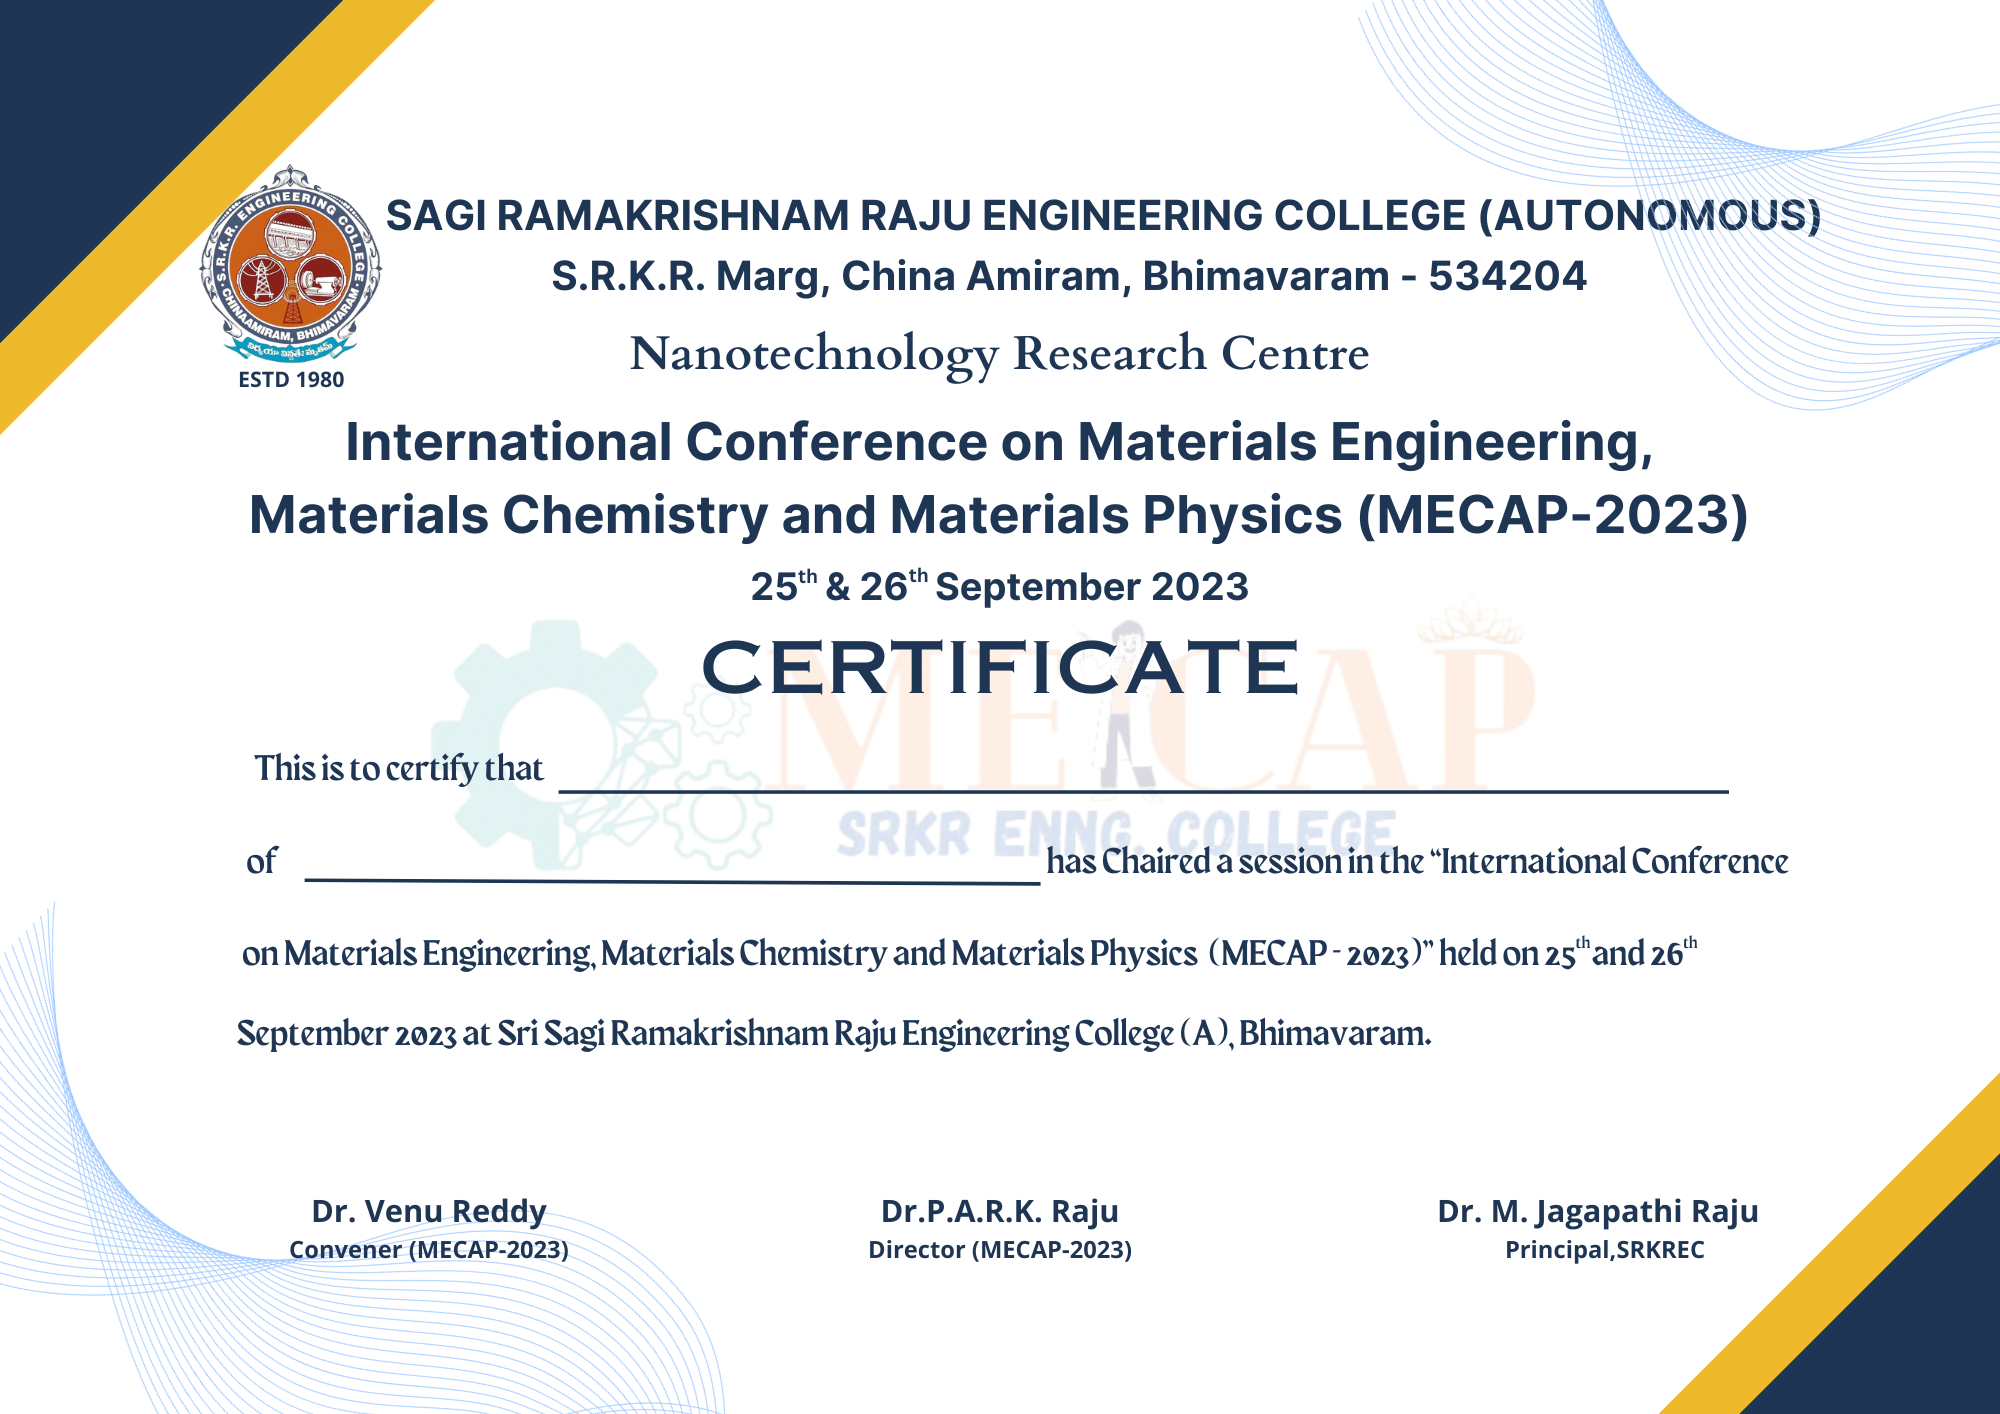
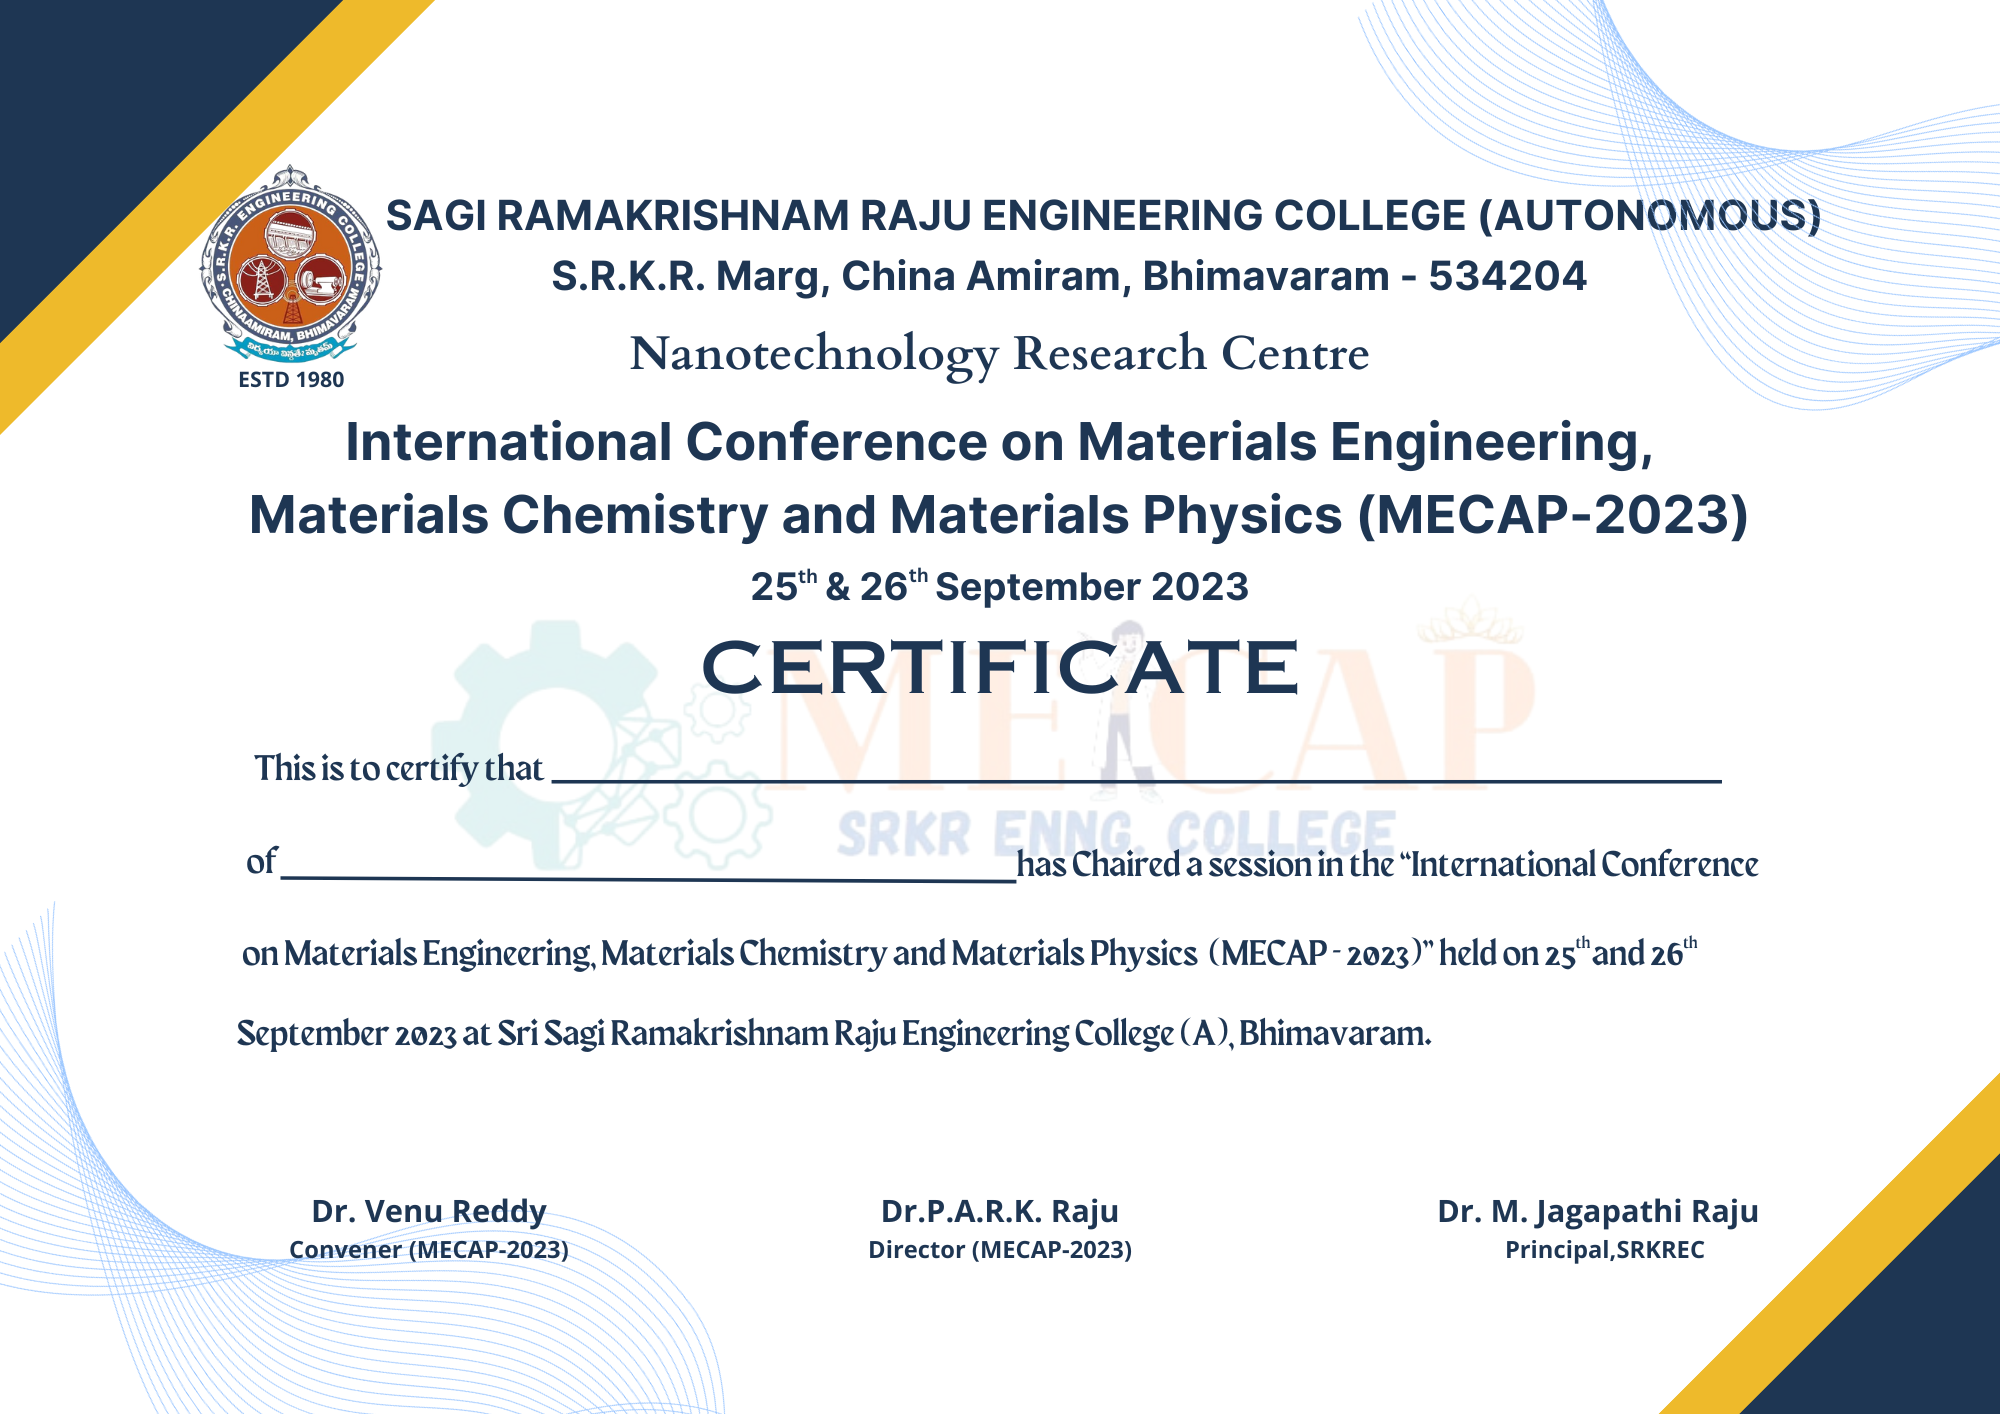
certificated updated shiva

Changed region(s): [[0.279, 0.529, 0.868, 0.5601], [0.496, 0.5912, 0.899, 0.6223], [0.434, 0.6223, 0.496, 0.6535]]

diff --git a/certificate/invitedtalk.php b/certificate/invitedtalk.php
@@ -35,12 +35,12 @@ else
 
 //writing name and roll number
 $text = $sname;
-imagettftext($im, 30, 0, 570, 790, $black, $font, $text);
+imagettftext($im, 30, 0, 570, 780, $black, $font, $text);
 
 //writing rool number
 $text = $subject; 
-imagettftext($im, 30, 0, 320, 880, $black, $font, $text);
-imagettftext($im, 30, 0, 1420, 880, $black, $font, $title);
+imagettftext($im, 30, 0, 320, 875, $black, $font, $text);
+imagettftext($im, 30, 0, 1420, 870, $black, $font, $title);
 
 $myfile = "tmp/".$rollno.".png";
 

diff --git a/certificate/oralpresentation.php b/certificate/oralpresentation.php
@@ -35,12 +35,12 @@ else
 
 //writing name and roll number
 $text = $sname;
-imagettftext($im, 30, 0, 570, 790, $black, $font, $text);
+imagettftext($im, 30, 0, 570, 780, $black, $font, $text);
 
 //writing rool number
 $text = $subject; 
-imagettftext($im, 30, 0, 320, 880, $black, $font, $text);
-imagettftext($im, 30, 0, 1420, 880, $black, $font, $title);
+imagettftext($im, 30, 0, 320, 870, $black, $font, $text);
+imagettftext($im, 30, 0, 1420, 870, $black, $font, $title);
 
 $myfile = "tmp/".$rollno.".png";
 

diff --git a/certificate/participate.php b/certificate/participate.php
@@ -34,11 +34,11 @@ else
 
 //writing name and roll number
 $text = $sname;
-imagettftext($im, 30, 0, 550, 790, $black, $font, $text);
+imagettftext($im, 30, 0, 550, 780, $black, $font, $text);
 
 //writing rool number
 $text = $subject; 
-imagettftext($im, 30, 0, 320, 880, $black, $font, $text);
+imagettftext($im, 30, 0, 320, 875, $black, $font, $text);
 
 $myfile = "tmp/".$rollno.".png";
 

diff --git a/certificate/chaired.php b/certificate/chaired.php
@@ -34,7 +34,7 @@ else
 
 //writing name and roll number
 $text = $sname;
-imagettftext($im, 30, 0, 570, 790, $black, $font, $text);
+imagettftext($im, 30, 0, 570, 780, $black, $font, $text);
 
 //writing rool number
 $text = $subject; 
